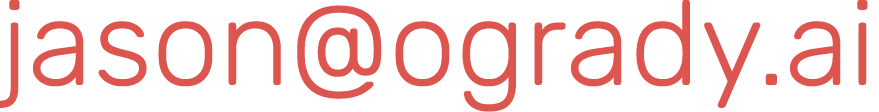
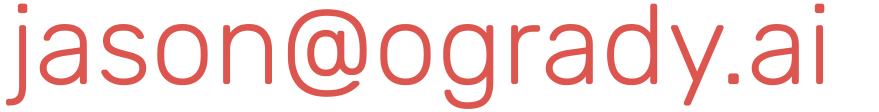
styles fixes

Changed region(s): [[0.0, 0.0, 1.0, 1.0], [0.9215, 0.0, 1.0, 0.1339], [0.0, 0.0, 0.0307, 0.1339]]

diff --git a/css/main.css b/css/main.css
@@ -4,7 +4,7 @@
   --feature: #d3fafc;
   --alt: #DC554F;
   --highlight: #14bec3;
-  --background: #e4ffff;
+  --background: #e4fdff;
 }
 
 html {
@@ -19,8 +19,6 @@ body {
   min-width: 370px;
 }
 .wrapper {
-  width: 100%;
-  max-width: 100%;
   padding: 0 .5rem;
 }
 main {
@@ -29,8 +27,9 @@ main {
 }
 h1 {
   font-family: Dancing Script;
-  font-size: 1.4rem;
-  font-size: clamp(1.4rem, -0.1rem + 5vw, 2.4rem);
+  margin-top: 2rem;
+  font-size: 1.6rem;
+  font-size: clamp(1.6rem, 0.8rem + 4vw, 2.4rem);
 }
 h2 {
   color: var(--highlight);
@@ -39,13 +38,23 @@ h2 {
 a {
   color: var(--main);
 }
-a:hover {
-  color: #DC554F;
-}
 a:link {
   text-decoration: none;
 }
+a:hover {
+  color: #DC554F;
+}
+#contact a {
+  text-decoration: none;
+}
 .navigation {
+  padding: 0;
+  margin: 1rem auto;
+  list-style: none;
+  display: flex;
+  flex-flow: row wrap;
+  justify-content: center;
+  gap: 1rem;
   font-size: 0.7rem;
   font-size: clamp(0.7rem, 0.25rem + 1.5vw, 1rem);
 }
@@ -104,7 +113,7 @@ p {
   display: flex;
   flex-flow: row nowrap;
   justify-content: space-between;
-  gap: 1rem;
+  gap: .7rem;
   margin: 3rem auto 0;
   max-width: 80vw;
 }
@@ -124,84 +133,61 @@ p {
 }
 
 
-
 /* Contact */
 #contact ul {
+  display: flex;
+  margin: 0 auto;
+  padding: 0;
+  width: 80vw;
+  max-width: 20rem;
+  flex-flow: column nowrap;
+  gap: .7rem;
   list-style: none;
-  padding-left: 3rem;
 }
 #contact li {
-  line-height: 2rem;
-  padding: .4rem 0;
+  background: var(--feature);
+  border-radius: .5rem;
+  height: 3rem;
+  margin: 0 auto;
+  width: 100%;
 }
-.social-container {
-  position: relative;
-}
-.social-container:hover {
-  color: var(--alt);
+#contact a {
+  display: flex;
+  flex-flow: row;
+  justify-content: center;
+  align-items: center;
+  gap: .7rem;
+  width: 100%;
+  height: 100%;
 }
 .social-icon {
   display: inline-block;
-  position: absolute;
   width: 2rem;
   height: 2rem;
-  left: -2.6rem;
-  top: -.4rem;
 }
 footer .social-icon {
   top: -.5rem;
 }
-#linkedin {
-  background: url("../img/linkedin.svg") 0%/2rem no-repeat;
-}
-.social-container:hover #linkedin {
-  background: url("../img/linkedin-hover.svg") 0%/2rem no-repeat;
-}
-#twitter {
-  background: url("../img/twitter.svg") 0%/2rem no-repeat;
-}
-.social-container:hover #twitter {
-  background: url("../img/twitter-hover.svg") 0%/2rem no-repeat;
-}
-#instagram {
-  background: url("../img/instagram.svg") 0%/2rem no-repeat;
-}
-.social-container:hover #instagram {
-  background: url("../img/instagram-hover.svg") 0%/2rem no-repeat;
-}
-#powerpage {
-  background: url("../img/powerpage.svg") 0%/2rem no-repeat;
-}
-.social-container:hover #powerpage {
-  background: url("../img/powerpage-hover.svg") 0%/2rem no-repeat;
-}
-#email {
-  background: url("../img/email.svg") 0%/2rem no-repeat;
-}
-.social-container:hover #email {
-  background: url("../img/email-hover.svg") 0%/2rem no-repeat;
-}
 #jason-email {
   display: inline-block;
   position: inherit;
-  top: .5rem;
+  top: 0;
   width: 8rem;
-  line-height: 2rem;
+  line-height: 1.1rem;
   background: url("../img/jason-email.png") no-repeat;
   background-size: 8rem;
 }
-.social-container:hover #jason-email {
+#contact a:hover #jason-email {
   background: url("../img/jason-email-hover.png") no-repeat;
   background-size: 8rem;
 }
 
 /* Publications */
-
 #publications ul {
   display: flex;
   flex-flow: row wrap;
   justify-content: space-around;
-  gap: 1rem;
+  gap: .7rem;
   margin: 0 auto;
   max-width: 30rem;
   list-style: none;
@@ -223,7 +209,7 @@ footer .social-icon {
   display: flex;
   flex-flow: row nowrap;
   padding: .5rem;
-  gap: 1rem;
+  gap: .7rem;
   justify-content: space-between;
 }
 .pub-text {
@@ -268,12 +254,9 @@ footer .social-icon {
   color: var(--highlight);
 }
 
-@media (max-width: 1000px) {
+@media (max-width: 900px) {
   #features {
     flex-flow: row wrap;
-    max-width: 60vw;
   }
-  .feature {
-    min-width: 40%;
-  }
+
 }

diff --git a/contact.html b/contact.html
@@ -27,6 +27,7 @@
   <link href="https://fonts.googleapis.com/css2?family=Bree+Serif&family=Dancing+Script&family=Rubik:wght@300&display=swap" rel="stylesheet">
 
   <script src="https://code.jquery.com/jquery-3.6.4.js"></script>
+  <script src="https://kit.fontawesome.com/2b071953cd.js" crossorigin="anonymous"></script>
 
   <meta name="theme-color" content="#171f40">
   <link rel="icon" href="favicon/favicon.svg">
@@ -39,51 +40,38 @@
 <body>
   <div class="wrapper">
   <header>
-    <div class="nav-wrapper">
-      <nav id ="nav-contact">
-        <div class="navigation">
-          <ul class="nav-items">
-          <li class="nav-home"><a href="index.html">&#127968;</a></li>
-          <li class="nav-contact"><a href="contact.html">Contact</a></li>
-          <li class="nav-publications"><a href="publications.html">Publications</a></li>
-          <li class="nav-resume"><a href="resume.html">Resume</a></li>
-          </ul>
-          <div class="nav-toogler"><div class="nav-mid"></div></div>
-        </div>
-      </nav>
-    </div>
+    <ul class="navigation">
+      <li class="nav-home"><a href="index.html">&#127968;</a></li>
+      <li class="nav-contact"><a href="contact.html">Contact</a></li>
+      <li class="nav-publications"><a href="publications.html">Publications</a></li>
+      <li class="nav-resume"><a href="resume.html">Resume</a></li>
+    </ul>
   </header>
 
   <main id="contact">
     <ul>
       <li>
-        <span class="social-container">
-          <span class="social-icon" id="email"></span>
-          <span id="jason-email">&nbsp;</span>
-        </span>
+        <a href="">
+          <div><i class="fa-solid fa-envelope fa-lg"></i></div>
+          <div id="jason-email">&nbsp;</div>
+        </a>
       </li>
       <li>
         <a href="https://twitter.com/JasonOGrady/">
-          <span class="social-container">
-            <span class="social-icon" id="twitter"></span>
-            Twitter
-          </span>
+          <div><i class="fa-brands fa-twitter fa-lg"></i></div>
+          <div>Twitter</div>
         </a>
       </li>
       <li>
         <a href="https://www.instagram.com/JasonOGrady/">
-          <span class="social-container">
-            <span class="social-icon" id="instagram"></span>
-            Instagram
-          </span>
+          <div><i class="fa-brands fa-instagram fa-lg"></i></div>
+          <div>Instagram</div>
         </a>
       </li>
       <li>
         <a href="https://www.powerpage.org">
-          <span class="social-container">
-            <span class="social-icon" id="powerpage"></span>
-            PowerPage
-          </span>
+          <div><i class="fa-solid fa-bolt fa-lg"></i></div>
+          <div>PowerPage</div>
         </a>
       </li>
     </ul>

diff --git a/publications.html b/publications.html
@@ -39,19 +39,12 @@
 <body>
   <div class="wrapper">
   <header>
-    <div class="nav-wrapper">
-      <nav id ="nav-publications">
-        <div class="navigation">
-          <ul class="nav-items">
-          <li class="nav-home"><a href="index.html">&#127968;</a></li>
-          <li class="nav-contact"><a href="contact.html">Contact</a></li>
-          <li class="nav-publications"><a href="publications.html">Publications</a></li>
-          <li class="nav-resume"><a href="resume.html">Resume</a></li>
-          </ul>
-          <div class="nav-toogler"><div class="nav-mid"></div></div>
-        </div>
-      </nav>
-    </div>
+    <ul class="navigation">
+      <li class="nav-home"><a href="index.html">&#127968;</a></li>
+      <li class="nav-contact"><a href="contact.html">Contact</a></li>
+      <li class="nav-publications"><a href="publications.html">Publications</a></li>
+      <li class="nav-resume"><a href="resume.html">Resume</a></li>
+    </ul>
   </header>
 
   <main id="publications">
@@ -65,8 +58,7 @@
       </li>
       <li>
         <a href="https://www.amazon.com/Droid-Pocket-Guide-Peachpit-ebook/dp/B003D2EJ68?ref_=ast_author_dp">
-          <div class="pub-text">The Droid Pocket Guide<br>            
-          </div>
+          <div class="pub-text">The Droid Pocket Guide</div>
           <img src="img/publication-02.png" alt="The Droid Pocket Guide">
         </a>
       </li>

diff --git a/index.html b/index.html
@@ -39,19 +39,12 @@
 <body id="home">
   <div class="wrapper">
   <header>
-    <div class="nav-wrapper">
-      <nav id ="nav-home">
-        <div class="navigation">
-          <ul class="nav-items">
-            <li class="nav-home"><a href="index.html">&#127968;</a></li>
-            <li class="nav-contact"><a href="contact.html">Contact</a></li>
-            <li class="nav-publications"><a href="publications.html">Publications</a></li>
-            <li class="nav-resume"><a href="resume.html">Resume</a></li>
-          </ul>
-          <div class="nav-toogler"><div class="nav-mid"></div></div>
-        </div>
-      </nav>
-    </div>
+    <ul class="navigation">
+      <li class="nav-home"><a href="index.html">&#127968;</a></li>
+      <li class="nav-contact"><a href="contact.html">Contact</a></li>
+      <li class="nav-publications"><a href="publications.html">Publications</a></li>
+      <li class="nav-resume"><a href="resume.html">Resume</a></li>
+    </ul>
   </header>
   
   <h1>Jason O'Grady</h1>

diff --git a/resume.html b/resume.html
@@ -49,19 +49,12 @@
 <body>
   <div class="wrapper">
   <header>
-    <div class="nav-wrapper">
-      <nav id ="nav-resume">
-        <div class="navigation">
-          <ul class="nav-items">
-          <li class="nav-home"><a href="index.html">&#127968;</a></li>
-          <li class="nav-contact"><a href="contact.html">Contact</a></li>
-          <li class="nav-publications"><a href="publications.html">Publications</a></li>
-          <li class="nav-resume"><a href="resume.html">Resume</a></li>
-          </ul>
-          <div class="nav-toogler"><div class="nav-mid"></div></div>
-        </div>
-      </nav>
-    </div>
+    <ul class="navigation">
+      <li class="nav-home"><a href="index.html">&#127968;</a></li>
+      <li class="nav-contact"><a href="contact.html">Contact</a></li>
+      <li class="nav-publications"><a href="publications.html">Publications</a></li>
+      <li class="nav-resume"><a href="resume.html">Resume</a></li>
+    </ul>
   </header>
 
   <main id="resume">
